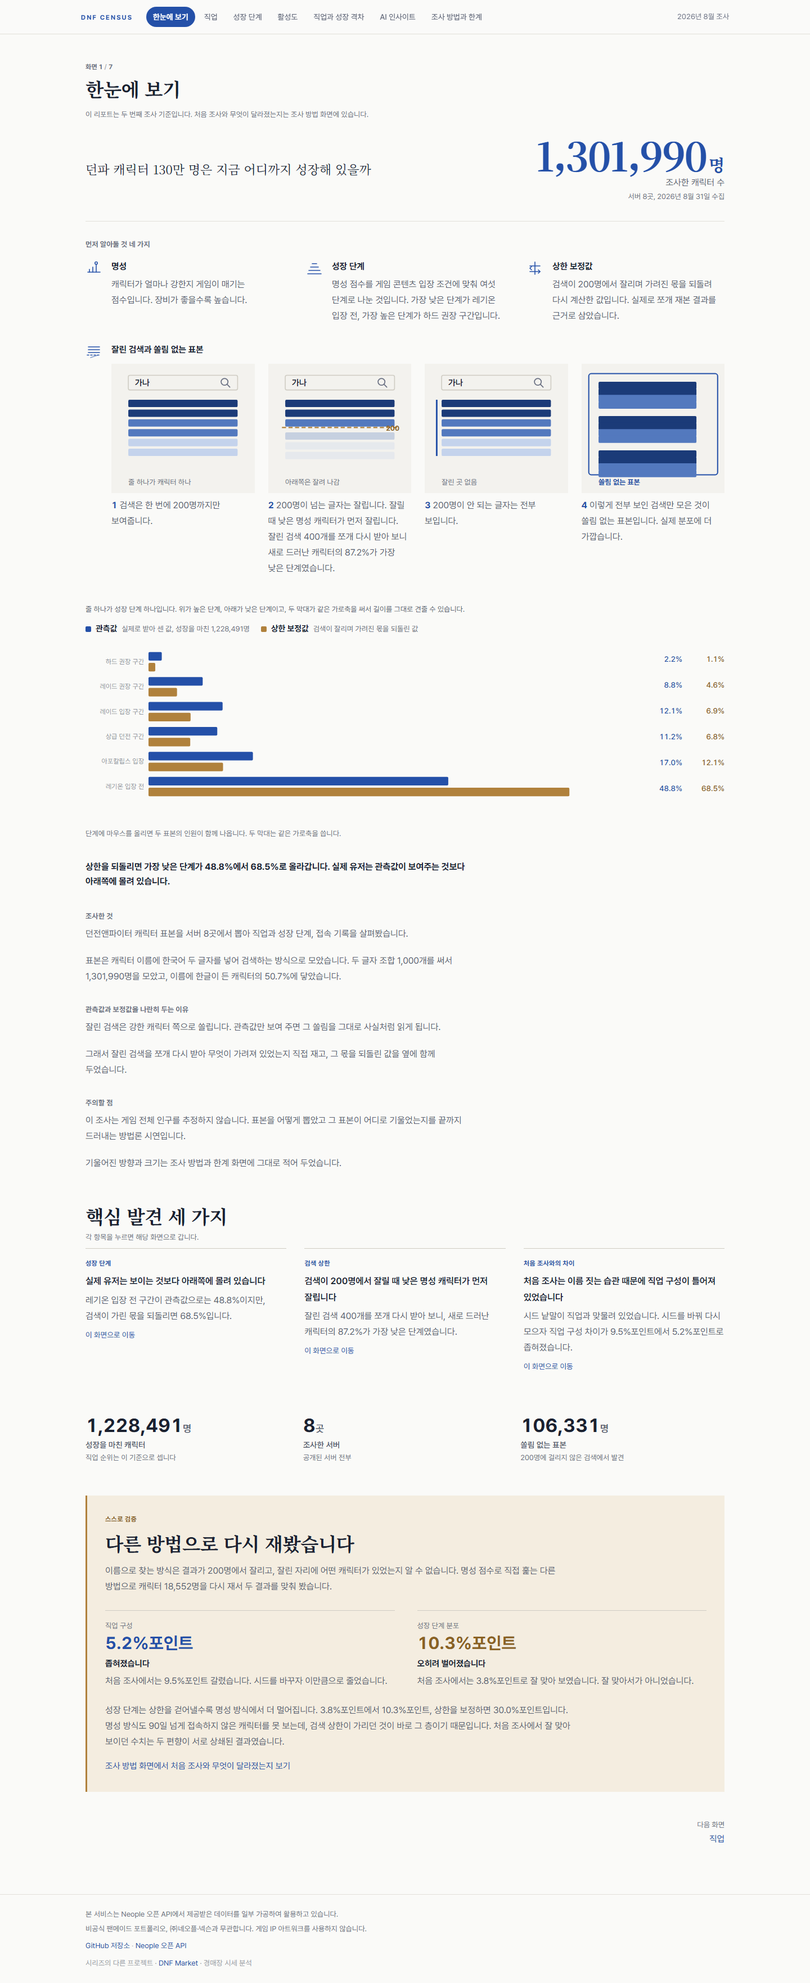
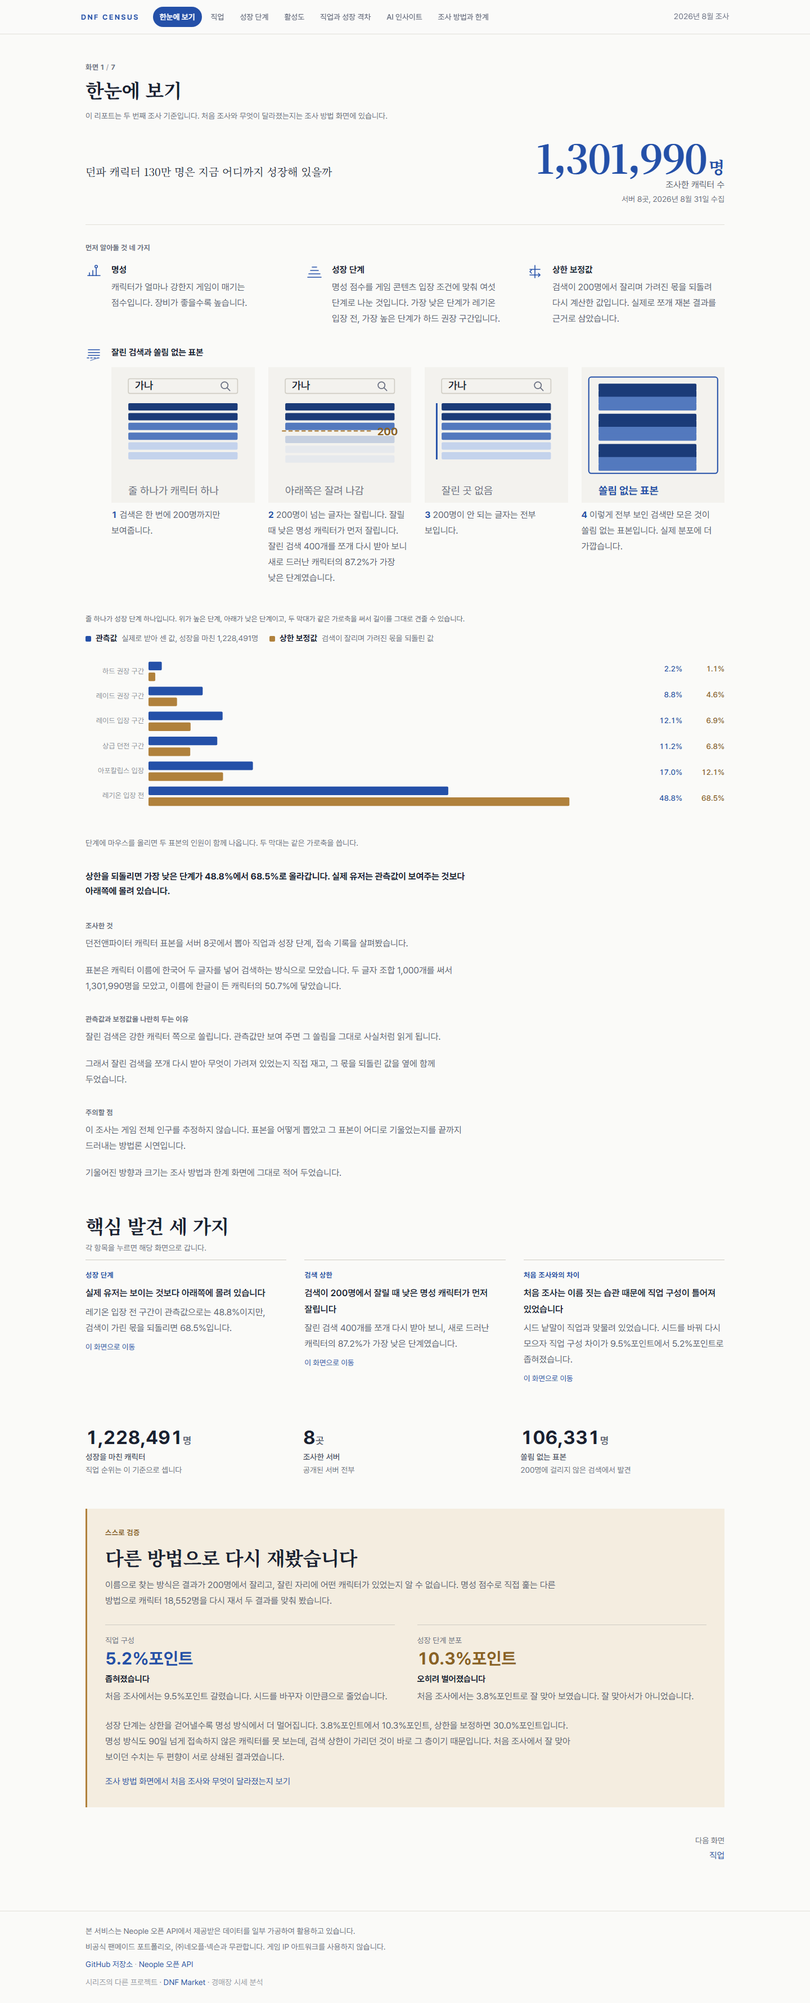
feat: 최소 글자 크기를 13픽셀로 통일하고 넘침·겹침 검사기를 더하다
타이포를 여섯 단계로 정리했다. 13 / 14 / 16 / 19 / 34 / 44.
작은 네 단계는 고정, 가장 큰 단계만 화면 폭에 따라 44에서 70.4까지 자란다.
차트 라벨, 셀 숫자, 범례, 각주까지 예외 없이 13픽셀 아래가 없다.
render-audit 의 13픽셀 미만은 데스크탑 164건과 모바일 212건에서 둘 다 0건이 됐다.

글자를 키우자 배치가 세 군데서 터졌다.

- SearchExplainer: 그림틀 높이가 9픽셀 캡션 시절 값이라 13픽셀 캡션이 막대와
  겹쳤다. CAP 상수로 캡션 몫을 떼어 두고 그림을 그 위에서 끝냈다. 점선 위
  "200" 표가 점선 끝을 덮어 점선을 라벨 앞에서 끊었다.
- charts/Activity: 좁은 화면에서 왼쪽 여백 92픽셀에 13픽셀 라벨이 안 들어가
  그림틀 밖으로 14픽셀 나갔다. 여백을 114로 넓혔다. 마주 보던 두 머리말이
  가운데서 부딪어 좁은 화면에서는 짧은 말로 바꿨다. 넓은 화면에서는 구간 이름과
  그 아래 주석이 1픽셀 겹쳐 주석을 5픽셀 내렸다.
- charts/IndexBars: 좁은 화면에서 줄이 화면보다 넓었다. 이것은 글자를 키우기
  전에도 있던 결함이다 (20픽셀, 키운 뒤 22픽셀). 고정 칸을 좁은 화면에서만 줄였다.

넘침·겹침 검사기를 새로 만들었다 (report/scripts/overflow-check.mjs). 문서 가로
넘침, 화면 밖으로 나간 요소, SVG 글자가 viewBox 밖으로 나간 것, SVG 글자끼리
겹친 것을 본다. 일부러 망가뜨려 셋 다 잡히는 것을 확인하고 나서 믿었다.
이 리포트는 해시 라우팅이라 `#growth` 로 가야 한다. `/growth` 는 첫 화면이 나온다.

글꼴 전략은 확인해 보니 이미 유니코드 범위 분할 서브셋이었다. 바꿀 것이 없었다.
Pretendard 92개, Noto Serif KR 248개의 unicode-range 선언을 쓰고 있고 text= 서브셋은
저장소 어디에도 없다. 첫 화면이 받는 것은 조각 33개 991킬로바이트다.

검증: render-audit 통과 (13픽셀 미만 0건), 넘침·겹침 검사 통과, 차트 글자 겹침 0건,
글꼴 폴백 0자, perf-block 20 4 통과 (가장 긴 멈춤 159밀리초, 기준 200),
LCP 중앙값 688에서 680밀리초로 사실상 그대로, 표시 안정성 3회 연속 통과,
verify_final 166건 실패 0, verify_findings 41건 불일치 0, check_docs_links 문제 0.

Claude-Session: https://claude.ai/code/session_019K3knWLYYnUbyTqY6AdMZN

diff --git a/report/src/components/SearchExplainer.jsx b/report/src/components/SearchExplainer.jsx
@@ -7,7 +7,8 @@ import { capEvidence } from "../lib/data.js";
  * 줄 하나가 캐릭터 하나이고, 줄이 짙을수록 강한 캐릭터다.
  */
 const W = 170;
-const H = 150;
+const H = 158;
+const CAP = 26;   // 맨 아래 캡션이 쓰는 띠. 그림은 이 위에서 끝난다.
 const ROW_H = 9;
 const ROW_GAP = 3;
 const LEFT = 18;
@@ -25,7 +26,7 @@ function SearchBox({ y }) {
   return (
     <g>
       <rect x={LEFT} y={y} width={ROW_W} height={18} rx="2" fill="none" stroke="var(--hairline-strong)" strokeWidth="1.1" />
-      <text x={LEFT + 8} y={y + 13} fontSize="10.5" fill="var(--text-primary)" fontWeight="600">가나</text>
+      <text x={LEFT + 8} y={y + 13} fontSize="13" fill="var(--text-primary)" fontWeight="600">가나</text>
       <circle cx={LEFT + ROW_W - 16} cy={y + 8} r="4.2" fill="none" stroke="var(--text-muted)" strokeWidth="1.2" />
       <path d={`M${LEFT + ROW_W - 13} ${y + 11}l3.5 3.5`} stroke="var(--text-muted)" strokeWidth="1.2" strokeLinecap="round" />
     </g>
@@ -41,7 +42,7 @@ function Panel1() {
       {TONES.slice(0, 6).map((t, i) => (
         <Row key={i} y={40 + i * (ROW_H + ROW_GAP)} tone={t} />
       ))}
-      <text x={LEFT} y={H - 6} fontSize="9" fill="var(--text-muted)">줄 하나가 캐릭터 하나</text>
+      <text x={LEFT} y={H - 6} fontSize="13" fill="var(--text-muted)">줄 하나가 캐릭터 하나</text>
     </svg>
   );
 }
@@ -53,14 +54,14 @@ function Panel2() {
       {TONES.slice(0, 3).map((t, i) => (
         <Row key={i} y={40 + i * (ROW_H + ROW_GAP)} tone={t} />
       ))}
-      <line x1={LEFT - 4} x2={LEFT + ROW_W + 4} y1={40 + 3 * (ROW_H + ROW_GAP) - 2} y2={40 + 3 * (ROW_H + ROW_GAP) - 2}
+      <line x1={LEFT - 4} x2={LEFT + ROW_W - 26} y1={40 + 3 * (ROW_H + ROW_GAP) - 2} y2={40 + 3 * (ROW_H + ROW_GAP) - 2}
         stroke="var(--gold)" strokeWidth="1.6" strokeDasharray="5 3" />
-      <text x={LEFT + ROW_W + 6} y={40 + 3 * (ROW_H + ROW_GAP) + 2} fontSize="8.5" fill="var(--gold-text)" fontWeight="700"
+      <text x={LEFT + ROW_W + 4} y={40 + 3 * (ROW_H + ROW_GAP) + 3} fontSize="13" fill="var(--gold-text)" fontWeight="700"
         textAnchor="end">200</text>
       {TONES.slice(3, 6).map((t, i) => (
         <Row key={i} y={40 + (i + 3) * (ROW_H + ROW_GAP) + 4} tone={t} dim />
       ))}
-      <text x={LEFT} y={H - 6} fontSize="9" fill="var(--text-muted)">아래쪽은 잘려 나감</text>
+      <text x={LEFT} y={H - 6} fontSize="13" fill="var(--text-muted)">아래쪽은 잘려 나감</text>
     </svg>
   );
 }
@@ -73,7 +74,7 @@ function Panel3() {
         <Row key={i} y={40 + i * (ROW_H + ROW_GAP)} tone={t} />
       ))}
       <path d={`M${LEFT - 6} 40v${6 * (ROW_H + ROW_GAP) - ROW_GAP}`} stroke="var(--accent)" strokeWidth="2" />
-      <text x={LEFT} y={H - 6} fontSize="9" fill="var(--text-muted)">잘린 곳 없음</text>
+      <text x={LEFT} y={H - 6} fontSize="13" fill="var(--text-muted)">잘린 곳 없음</text>
     </svg>
   );
 }
@@ -82,15 +83,15 @@ function Panel4() {
   const groups = [0, 1, 2];
   return (
     <svg viewBox={`0 0 ${W} ${H}`} width="100%" role="img" aria-label="전부 보인 검색만 모은 것이 쏠림 없는 표본">
-      <rect x={6} y={8} width={W - 12} height={H - 26} rx="3" fill="none" stroke="var(--accent)" strokeWidth="1.4" />
+      <rect x={6} y={8} width={W - 12} height={H - CAP - 14} rx="3" fill="none" stroke="var(--accent)" strokeWidth="1.4" />
       {groups.map((g) => (
         <g key={g}>
           {TONES.slice(0, 4).map((t, i) => (
-            <Row key={i} y={18 + g * 42 + i * 8} tone={t} width={ROW_W - 14} />
+            <Row key={i} y={16 + g * 37 + i * 8} tone={t} width={ROW_W - 14} />
           ))}
         </g>
       ))}
-      <text x={LEFT} y={H - 6} fontSize="9" fill="var(--accent)" fontWeight="700">쏠림 없는 표본</text>
+      <text x={LEFT} y={H - 6} fontSize="13" fill="var(--accent)" fontWeight="700">쏠림 없는 표본</text>
     </svg>
   );
 }

diff --git a/report/src/components/charts/Activity.jsx b/report/src/components/charts/Activity.jsx
@@ -40,7 +40,7 @@ export function ActivityMorph({ before, after, subsample }) {
         ))}
       </div>
 
-      <div className="mt-1 flex justify-between text-[0.72rem]" style={{ color: "var(--text-muted)" }}>
+      <div className="mt-1 flex justify-between text-[0.8125rem]" style={{ color: "var(--text-muted)" }}>
         <span>왼쪽일수록 최근 접속</span>
         <span>오른쪽일수록 오래 미접속</span>
       </div>
@@ -61,8 +61,8 @@ export function ActivityMorph({ before, after, subsample }) {
   );
 }
 
-const WIDE = { w: 900, row: 62, left: 128, right: 66, font: 12.5 };
-const NARROW = { w: 380, row: 54, left: 92, right: 44, font: 10.5 };
+const WIDE = { w: 900, row: 62, left: 128, right: 66, font: 13 };
+const NARROW = { w: 380, row: 54, left: 114, right: 44, font: 13 };
 
 /** 명성 구간을 아래에서 위로 쌓은 스트림. 위로 갈수록 최근 접속 비중이 짙어진다. */
 export function ActivityStream({ bins }) {
@@ -96,9 +96,12 @@ export function ActivityStream({ bins }) {
     <div ref={ref}>
       <svg viewBox={`0 0 ${S.w} ${H}`} width="100%" style={{ display: "block" }} role="img"
         aria-label="명성 구간별 접속 기록 구성">
-        <text x={S.left} y={12} fontSize={narrow ? 9 : 10.5} fill="var(--text-muted)">왼쪽일수록 최근 접속</text>
-        <text x={S.w - S.right} y={12} textAnchor="end" fontSize={narrow ? 9 : 10.5} fill="var(--text-muted)">
-          오른쪽일수록 오래 미접속
+        {/* 좁은 화면에서는 13픽셀로 키운 두 머리말이 가운데서 맞부딪는다. 짧게 줄여 쓴다. */}
+        <text x={S.left} y={12} fontSize={13} fill="var(--text-muted)">
+          {narrow ? "← 최근 접속" : "왼쪽일수록 최근 접속"}
+        </text>
+        <text x={S.w - S.right} y={12} textAnchor="end" fontSize={13} fill="var(--text-muted)">
+          {narrow ? "오래 미접속 →" : "오른쪽일수록 오래 미접속"}
         </text>
         <g opacity={seen ? 1 : 0} style={{ transition: `opacity ${ENTER_MS}ms ease` }}>
           {bands.map((b) => (
@@ -112,14 +115,14 @@ export function ActivityStream({ bins }) {
               fill="var(--text-primary)">
               {b.bin}
             </text>
-            <text x={S.w - S.right + 8} y={yOf(i) + 4} fontSize={narrow ? 9.5 : 11.5} className="num" fill="var(--text-muted)">
+            <text x={S.w - S.right + 8} y={yOf(i) + 4} fontSize={13} className="num" fill="var(--text-muted)">
               {fmtPeople(b.n)}
             </text>
             {b.smallSample && (
               <>
                 <rect x={S.left - 4} y={28 + i * S.row + 5} width={innerW + 8} height={S.row - 10}
                   fill="none" stroke="var(--gold)" strokeWidth="1.2" strokeDasharray="5 4" />
-                <text x={S.left - 10} y={yOf(i) + 18} textAnchor="end" fontSize={narrow ? 8.5 : 10.5}
+                <text x={S.left - 10} y={yOf(i) + 23} textAnchor="end" fontSize={13}
                   fill="var(--gold-text)" fontWeight="700">
                   표본이 적어 참고용
                 </text>

diff --git a/report/src/components/charts/MirrorPyramid.jsx b/report/src/components/charts/MirrorPyramid.jsx
@@ -5,7 +5,7 @@ import { fmtPct, fmtPeople, fmtPp, asParticle } from "../../lib/format.js";
 import { useInView, useMediaQuery, useReducedMotion, ENTER_MS } from "../../lib/hooks.js";
 
 const WIDE = { w: 960, gutter: 168, row: 50, pad: 96, bar: 34, font: 13 };
-const NARROW = { w: 380, gutter: 0, row: 70, pad: 10, bar: 20, font: 12 };
+const NARROW = { w: 380, gutter: 0, row: 70, pad: 10, bar: 20, font: 13 };
 
 /** 좌우 대칭 피라미드. 반대쪽 표본은 점선 윤곽으로 겹쳐 보여 준다. */
 export default function MirrorPyramid({
@@ -53,7 +53,7 @@ export default function MirrorPyramid({
                   <text x={4} y={top + 12} fontSize={S.font} fontWeight="600" fill="var(--text-primary)">
                     {b.label}
                   </text>
-                  <text x={S.w - 4} y={top + 12} textAnchor="end" fontSize="11" className="num" fill="var(--text-muted)">
+                  <text x={S.w - 4} y={top + 12} textAnchor="end" fontSize="13" className="num" fill="var(--text-muted)">
                     {fmtPeople(countAt(b))}
                   </text>
                 </>
@@ -70,19 +70,19 @@ export default function MirrorPyramid({
                 style={{ transition: ease }} />
 
               {wideEnough ? (
-                <text x={cx} y={mid} textAnchor="middle" fontSize="12.5" className="num"
+                <text x={cx} y={mid} textAnchor="middle" fontSize="13" className="num"
                   fill={BIN_ORDER.indexOf(b.label) >= 4 ? "#FFFFFF" : "var(--text-primary)"} style={{ transition: ease }}>
                   {fmtPct(v)}
                 </text>
               ) : (
-                <text x={cx + half + 8} y={mid} fontSize="12" className="num" fill="var(--text-secondary)"
+                <text x={cx + half + 8} y={mid} fontSize="13" className="num" fill="var(--text-secondary)"
                   style={{ transition: ease }}>
                   {fmtPct(v)}
                 </text>
               )}
 
               {!narrow && (
-                <text x={S.w - 6} y={mid} textAnchor="end" fontSize="12" className="num" fill="var(--text-muted)">
+                <text x={S.w - 6} y={mid} textAnchor="end" fontSize="13" className="num" fill="var(--text-muted)">
                   {fmtPeople(countAt(b))}
                 </text>
               )}
@@ -92,7 +92,7 @@ export default function MirrorPyramid({
                   <line x1={cx - half} x2={cx - ghostHalf} y1={barY + S.bar + 7} y2={barY + S.bar + 7}
                     stroke="var(--gold)" strokeWidth="2" style={{ transition: ease }} />
                   <text x={Math.max(4, cx - Math.max(half, ghostHalf))} y={barY + S.bar + 22}
-                    fontSize="12" fontWeight="700" className="num" fill="var(--gold-text)" style={{ transition: ease }}>
+                    fontSize="13" fontWeight="700" className="num" fill="var(--gold-text)" style={{ transition: ease }}>
                     {`${gapText} ${fmtPp(gapValue)}`}
                   </text>
                 </g>

diff --git a/report/src/index.css b/report/src/index.css
@@ -73,11 +73,15 @@ html {
 
 body { margin: 0; min-height: 100vh; }
 
-/* ─ 타이포 5단계 ─ */
+/* ─ 타이포 6단계 ─
+   13 / 14 / 16 / 19 / 34 / 44.
+   최소 글자 크기는 13픽셀이고 차트 라벨과 셀 숫자, 범례, 각주까지 예외가 없다.
+   `node scripts/render-audit.mjs` 가 13픽셀보다 작은 글자를 세고, 0건이 기준이다.
+   작은 네 단계는 고정, 가장 큰 단계만 화면 폭에 따라 44에서 70.4까지 자란다. */
 .t-display {
   font-family: "Noto Serif KR", "Apple SD Gothic Neo", "Malgun Gothic", serif;
   font-weight: 700;
-  font-size: clamp(2.6rem, 7vw, 4.4rem);
+  font-size: clamp(2.75rem, 7vw, 4.4rem);
   line-height: 1.02;
   letter-spacing: -0.03em;
   font-variant-numeric: tabular-nums;
@@ -85,14 +89,14 @@ body { margin: 0; min-height: 100vh; }
 .t-title {
   font-family: "Noto Serif KR", "Apple SD Gothic Neo", "Malgun Gothic", serif;
   font-weight: 700;
-  font-size: clamp(1.5rem, 3.4vw, 2.1rem);
+  font-size: 2.125rem;
   line-height: 1.4;
   letter-spacing: -0.02em;
 }
 .t-lead {
   font-family: "Noto Serif KR", "Apple SD Gothic Neo", "Malgun Gothic", serif;
   font-weight: 400;
-  font-size: clamp(1.19rem, 2.1vw, 1.375rem);
+  font-size: 1.1875rem;
   line-height: 1.6;
   color: var(--text-primary);
 }
@@ -107,21 +111,21 @@ body { margin: 0; min-height: 100vh; }
   color: var(--text-muted);
 }
 .t-eyebrow {
-  font-size: 0.74rem;
+  font-size: 0.8125rem;
   font-weight: 700;
   letter-spacing: 0.03em;
   color: var(--text-muted);
 }
 /* 로마자 워드마크에만 넓은 자간을 남긴다 */
 .t-wordmark {
-  font-size: 0.72rem;
+  font-size: 0.8125rem;
   font-weight: 700;
   letter-spacing: 0.18em;
 }
 .t-body { font-size: 1rem; line-height: 1.75; color: var(--text-secondary); }
 .prose { max-width: 680px; }
 .prose > p + p { margin-top: 20px; }
-.t-small { font-size: 0.82rem; line-height: 1.7; color: var(--text-muted); }
+.t-small { font-size: 0.875rem; line-height: 1.7; color: var(--text-muted); }
 
 h1, h2, h3, .t-display, .t-title, .t-lead, .t-body, p, li, td, th, figcaption {
   word-break: keep-all;
@@ -142,7 +146,7 @@ a { color: var(--accent); text-underline-offset: 3px; }
   border: 0;
   padding: 0;
   font: inherit;
-  font-size: 0.88rem;
+  font-size: 0.875rem;
   color: var(--accent);
   cursor: pointer;
   text-decoration: underline;
@@ -168,7 +172,7 @@ a { color: var(--accent); text-underline-offset: 3px; }
   border: 1px solid var(--hairline-strong);
   border-radius: 3px;
   box-shadow: 0 6px 20px rgba(27, 33, 48, 0.12);
-  font-size: 0.82rem;
+  font-size: 0.875rem;
   font-weight: 400;
   line-height: 1.65;
   white-space: normal;
@@ -187,7 +191,7 @@ a { color: var(--accent); text-underline-offset: 3px; }
 }
 
 /* ─ 표 ─ */
-table.plain { width: 100%; border-collapse: collapse; font-size: 0.88rem; }
+table.plain { width: 100%; border-collapse: collapse; font-size: 0.875rem; }
 table.plain th {
   text-align: left;
   font-weight: 600;

diff --git a/report/src/components/charts/IndexBars.jsx b/report/src/components/charts/IndexBars.jsx
@@ -7,10 +7,10 @@ export default function IndexBars({ title, rows, maxDeviation = 1.0 }) {
   return (
     <div ref={ref}>
       <p className="t-eyebrow m-0 mb-1">{title}</p>
-      <div className="mb-1 flex items-center gap-3 text-[0.72rem]" style={{ color: "var(--text-muted)" }}>
-        <span className="w-[9.4rem] shrink-0" />
+      <div className="mb-1 flex items-center gap-2 text-[0.8125rem] sm:gap-3" style={{ color: "var(--text-muted)" }}>
+        <span className="w-[5.6rem] shrink-0 sm:w-[9.4rem]" />
         <span className="relative flex-1 text-center">표본 평균 1.00</span>
-        <span className="w-[3.6rem] shrink-0" />
+        <span className="w-[3.2rem] shrink-0 sm:w-[3.6rem]" />
         <span className="w-[7.8rem] shrink-0" />
       </div>
       <ul className="m-0 list-none p-0">
@@ -19,8 +19,8 @@ export default function IndexBars({ title, rows, maxDeviation = 1.0 }) {
           const w = Math.min(50, (Math.abs(dev) / maxDeviation) * 50);
           const right = dev >= 0;
           return (
-            <li key={r.job} className="flex items-center gap-3 py-[3px] text-[0.84rem]">
-              <span className="w-[9.4rem] shrink-0 truncate" style={{ color: "var(--text-primary)" }}>{r.job}</span>
+            <li key={r.job} className="flex items-center gap-2 py-[3px] text-[0.84rem] sm:gap-3">
+              <span className="w-[5.6rem] shrink-0 truncate sm:w-[9.4rem]" style={{ color: "var(--text-primary)" }}>{r.job}</span>
               <span className="relative h-[15px] flex-1" style={{ background: "var(--bg-sunken)" }}>
                 <span className="absolute inset-y-0" style={{ left: "50%", width: 1, background: "var(--hairline-strong)" }} />
                 <span
@@ -33,7 +33,7 @@ export default function IndexBars({ title, rows, maxDeviation = 1.0 }) {
                   }}
                 />
               </span>
-              <span className="num w-[3.6rem] shrink-0 text-right font-semibold"
+              <span className="num w-[3.2rem] shrink-0 text-right font-semibold sm:w-[3.6rem]"
                 style={{ color: right ? "var(--ink-5)" : "var(--gold-text)" }}>{fmtX(r.index)}</span>
               <span className="num w-[7.8rem] shrink-0 text-right" style={{ color: "var(--text-muted)" }}>
                 {fmtPct(r.raidShare * 100)} · {fmtPeople(r.total)}

diff --git a/report/src/pages/Insights.jsx b/report/src/pages/Insights.jsx
@@ -13,7 +13,7 @@ const FILTERS = [
 function Block({ label, children, accent }) {
   return (
     <div className="mt-4">
-      <p className="t-kicker m-0" style={{ fontSize: "0.72rem", letterSpacing: "0.14em" }}>{label}</p>
+      <p className="t-kicker m-0" style={{ fontSize: "0.8125rem", letterSpacing: "0.14em" }}>{label}</p>
       <p className="t-body m-0 mt-2 text-[0.9rem]" style={accent ? { color: "var(--accent)" } : undefined}>
         {children}
       </p>
@@ -48,7 +48,7 @@ function Card({ item, open, onToggle, index }) {
               <Block label="이렇게 확인할 수 있습니다">{item.validation}</Block>
               <Block label="다음 질문" accent>{item.nextQuestion}</Block>
               <div className="mt-5">
-                <p className="t-kicker m-0 mb-2" style={{ fontSize: "0.72rem", letterSpacing: "0.14em" }}>관련 수치</p>
+                <p className="t-kicker m-0 mb-2" style={{ fontSize: "0.8125rem", letterSpacing: "0.14em" }}>관련 수치</p>
                 <MiniChart focus={item.focus} />
               </div>
             </motion.div>

diff --git a/report/src/components/charts/MiniChart.jsx b/report/src/components/charts/MiniChart.jsx
@@ -8,7 +8,7 @@ import { fmtPct, fmtPeople } from "../../lib/format.js";
 
 function Row({ label, value, max, color, note, strong }) {
   return (
-    <li className="flex items-center gap-2 py-[2px] text-[0.76rem]">
+    <li className="flex items-center gap-2 py-[2px] text-[0.8125rem]">
       <span className="w-[6.4rem] shrink-0 truncate" style={{ color: strong ? "var(--text-primary)" : "var(--text-secondary)", fontWeight: strong ? 700 : 450 }}>
         {label}
       </span>
@@ -23,7 +23,7 @@ function Row({ label, value, max, color, note, strong }) {
 function Stacked({ label, parts, order, colors }) {
   return (
     <div className="py-1">
-      <p className="m-0 text-[0.76rem]" style={{ color: "var(--text-secondary)" }}>{label}</p>
+      <p className="m-0 text-[0.8125rem]" style={{ color: "var(--text-secondary)" }}>{label}</p>
       <div className="mt-1 flex h-[16px] overflow-hidden" style={{ background: "var(--bg-sunken)" }}>
         {order.map((k) => (
           <div key={k} style={{ width: `${parts[k]}%`, background: colors[k] }} title={`${k} ${fmtPct(parts[k])}`} />

diff --git a/report/src/pages/Growth.jsx b/report/src/pages/Growth.jsx
@@ -121,7 +121,7 @@ export default function Growth() {
                   {capBins.map((b, i) => (
                     <tr key={b.label}>
                       <td style={{ color: "var(--text-primary)" }}>{b.label}</td>
-                      <td className="num text-[0.78rem]">{CUT_NOTE[i][1]}</td>
+                      <td className="num text-[0.8125rem]">{CUT_NOTE[i][1]}</td>
                       <td className="num text-right">{fmtPct(b.observed)}<br /><span style={{ color: "var(--text-muted)" }}>{fmtPeople(b.observedCount)}</span></td>
                       <td className="num text-right" style={{ color: "var(--gold-text)", fontWeight: 600 }}>{fmtPct(b.corrected)}</td>
                     </tr>

diff --git a/report/src/components/charts/TopBars.jsx b/report/src/components/charts/TopBars.jsx
@@ -17,7 +17,7 @@ export default function TopBars({ items, hover, setHover }) {
             onMouseLeave={() => setHover(null)}
             style={{ cursor: "default" }}
           >
-            <span className="num w-5 shrink-0 text-right text-[0.76rem]" style={{ color: "var(--text-muted)" }}>{i + 1}</span>
+            <span className="num w-5 shrink-0 text-right text-[0.8125rem]" style={{ color: "var(--text-muted)" }}>{i + 1}</span>
             <span className="w-[7.2rem] shrink-0 truncate text-[0.86rem]"
               style={{ color: on ? "var(--text-primary)" : "var(--text-secondary)", fontWeight: on ? 700 : 450 }}>
               {d.jobName}

diff --git a/report/src/components/charts/Legend.jsx b/report/src/components/charts/Legend.jsx
@@ -4,7 +4,7 @@ function Swatches({ items, colors, note }) {
   return (
     <div className="mt-2 flex flex-wrap items-center gap-x-4 gap-y-1">
       {items.map((k) => (
-        <span key={k} className="flex items-center gap-1.5 text-[0.78rem]" style={{ color: "var(--text-secondary)" }}>
+        <span key={k} className="flex items-center gap-1.5 text-[0.8125rem]" style={{ color: "var(--text-secondary)" }}>
           <span className="inline-block h-[9px] w-[9px] shrink-0" style={{ background: colors[k] }} />
           {k}
         </span>

diff --git a/report/src/pages/Activity.jsx b/report/src/pages/Activity.jsx
@@ -90,7 +90,7 @@ export default function Activity() {
                     <td style={{ color: "var(--text-primary)" }}>{k}</td>
                     <td className="num text-right">
                       {fmtPct(before[k])}
-                      <span className="block text-[0.8rem]" style={{ color: "var(--text-muted)" }}>
+                      <span className="block text-[0.8125rem]" style={{ color: "var(--text-muted)" }}>
                         {fmtPeople(actOverall[k].count)}
                       </span>
                     </td>

diff --git a/report/src/components/charts/JobGroupBars.jsx b/report/src/components/charts/JobGroupBars.jsx
@@ -40,7 +40,7 @@ export default function JobGroupBars({ groups, total }) {
                   }}
                 />
               </span>
-              <span className="num w-[7.6rem] shrink-0 text-right text-[0.78rem]" style={{ color: "var(--text-muted)" }}>
+              <span className="num w-[7.6rem] shrink-0 text-right text-[0.8125rem]" style={{ color: "var(--text-muted)" }}>
                 {fmtPeople(g.count)} {fmtPct((g.count / total) * 100)}
               </span>
             </li>
